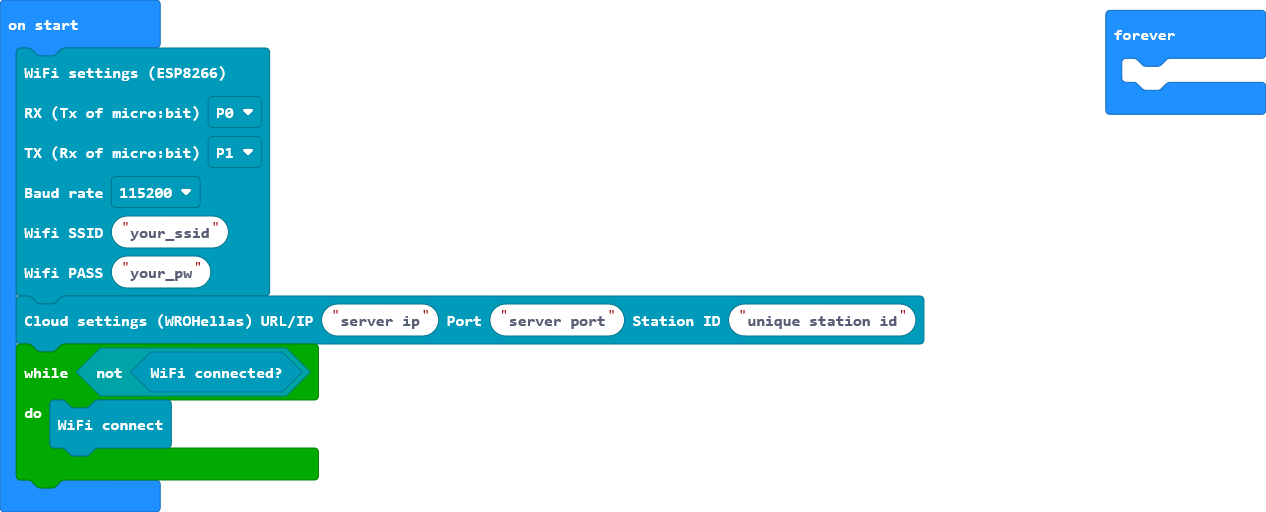
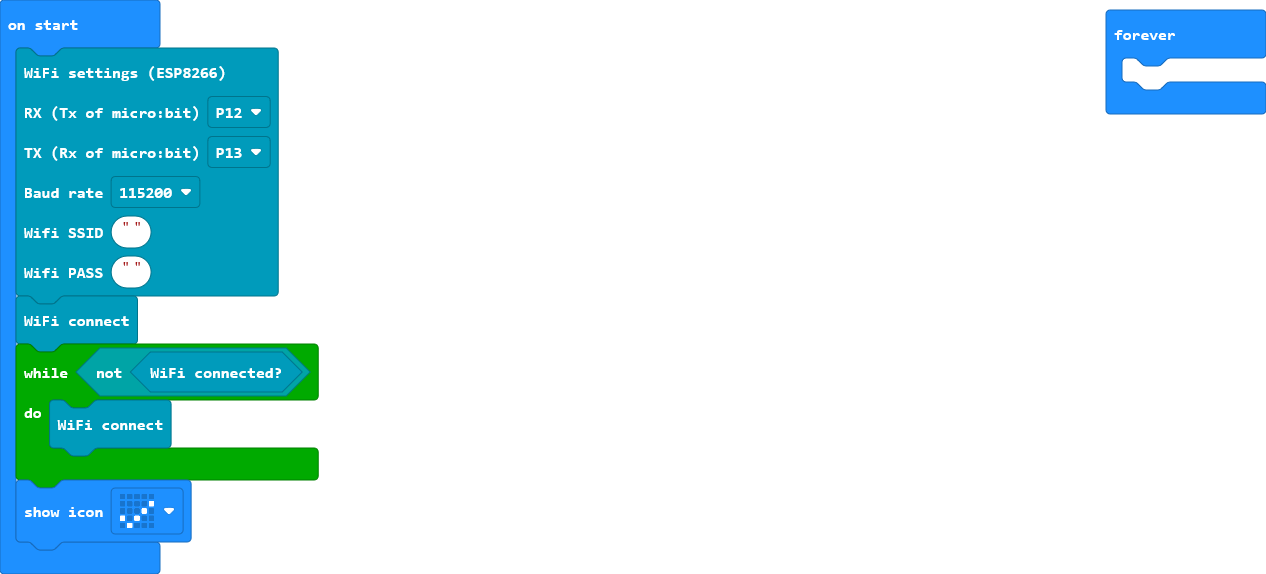
Update pxt.json, main.blocks, main.ts

Changed region(s): [[0.0, 0.0312, 0.7393, 0.9688], [0.8626, 0.0, 1.0, 0.25]]

diff --git a/main.ts b/main.ts
@@ -1,14 +1,15 @@
 WROHellasCloud.wifiSettings(
-SerialPin.P0,
-SerialPin.P1,
+SerialPin.P12,
+SerialPin.P13,
 BaudRate.BaudRate115200,
-"your_ssid",
-"your_pw"
+"",
+""
 )
-WROHellasCloud.cloudSettings("server ip", "server port", "unique station id")
+WROHellasCloud.wifiConnect()
 while (!(WROHellasCloud.wifiStatus())) {
     WROHellasCloud.wifiConnect()
 }
+basic.showIcon(IconNames.Yes)
 basic.forever(function () {
 	
 })
